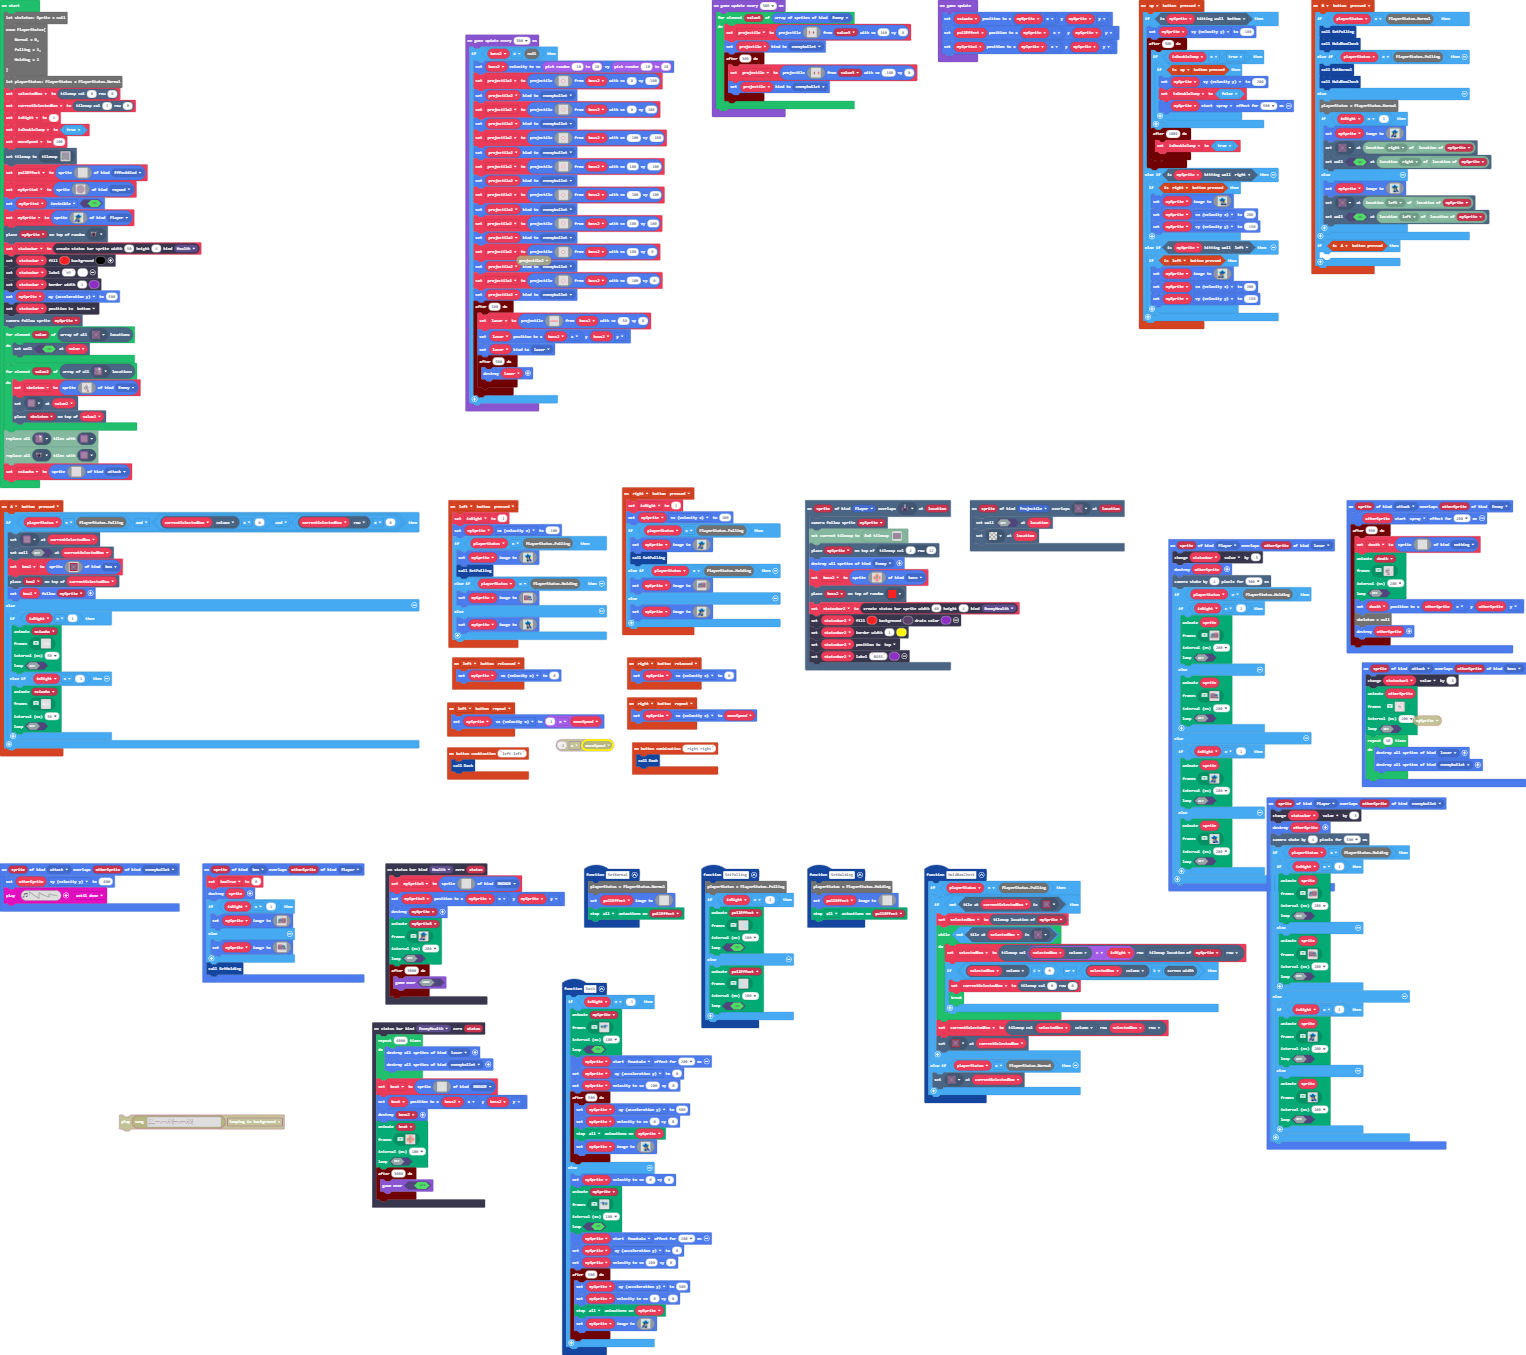
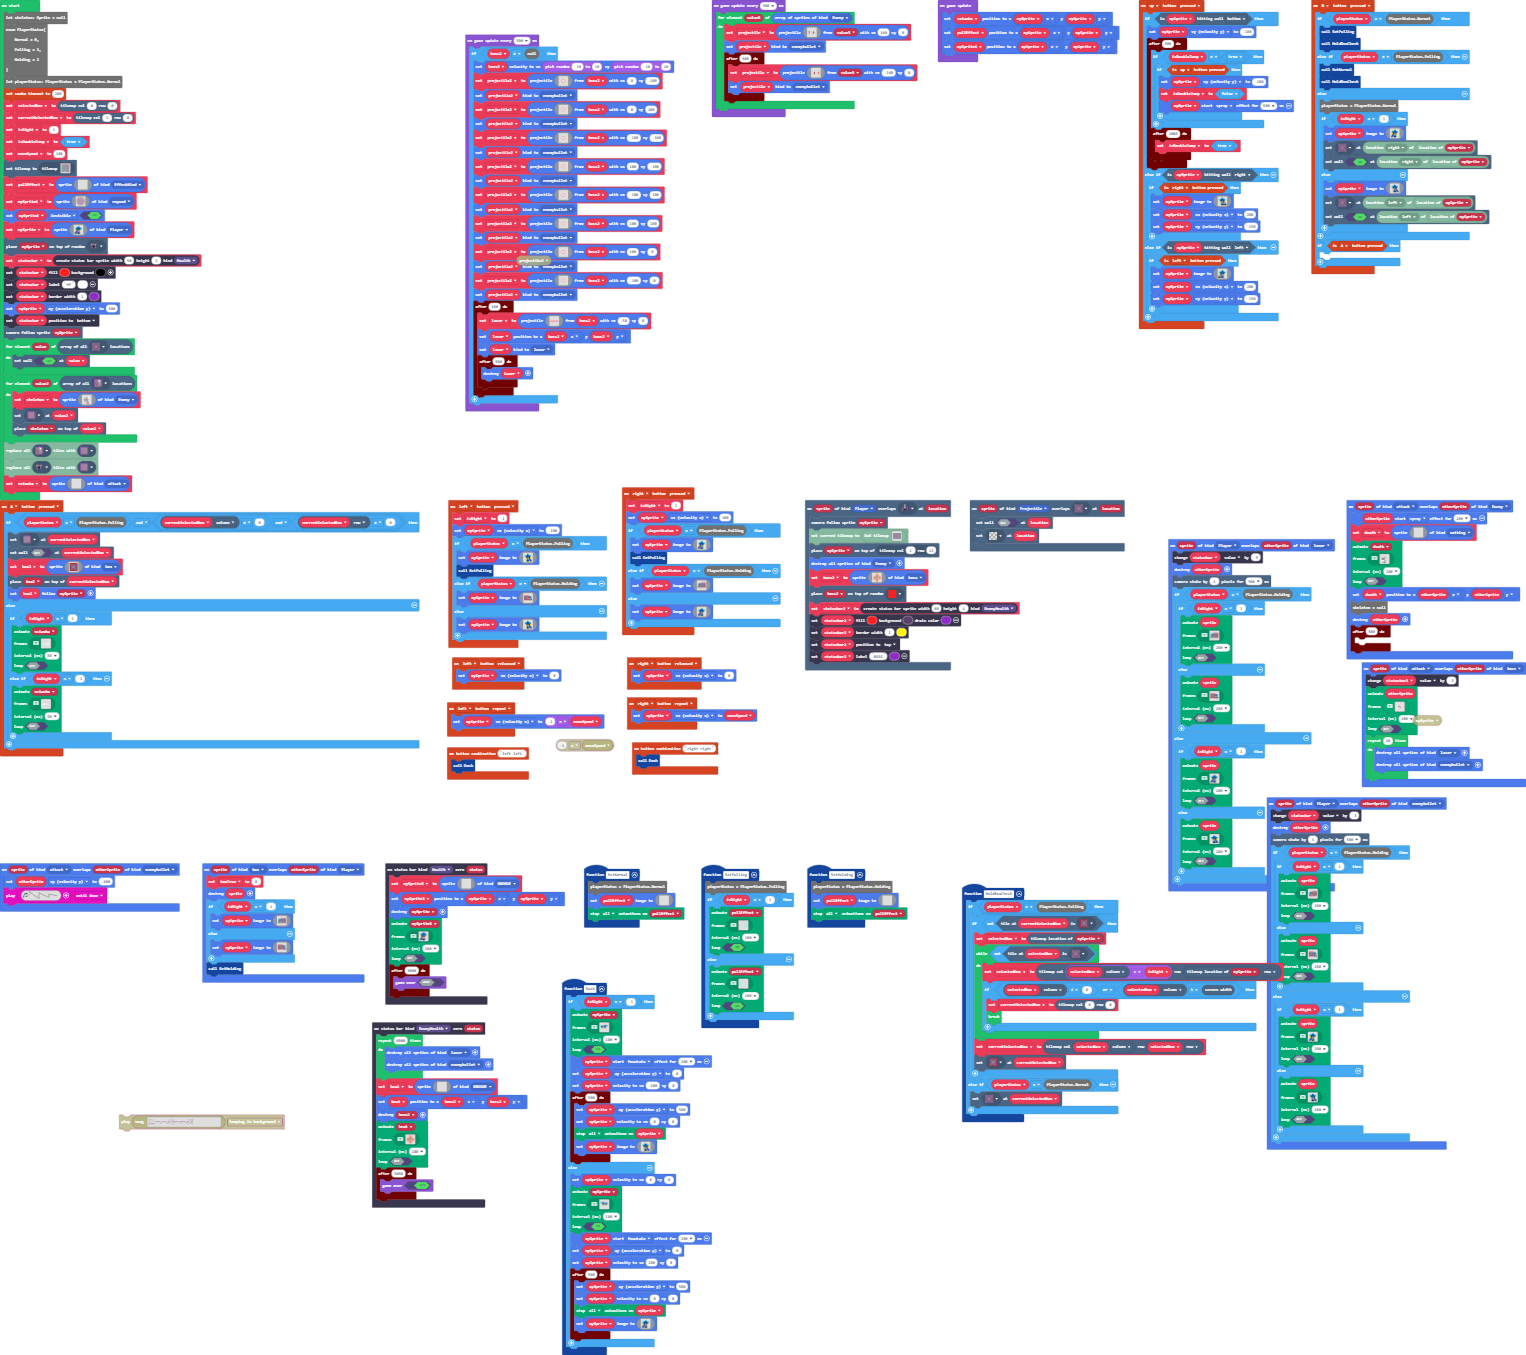
Adjusr dash and enemy death animation

Changed region(s): [[0.5852, 0.6199, 0.8624, 0.8369], [0.0, 0.062, 0.1232, 0.372], [0.8624, 0.372, 1.0, 0.4959]]

diff --git a/main.ts b/main.ts
@@ -1513,119 +1513,137 @@ statusbars.onZero(StatusBarKind.Health, function (status) {
 })
 sprites.onOverlap(SpriteKind.attack, SpriteKind.Enemy, function (sprite, otherSprite) {
     otherSprite.startEffect(effects.spray, 200)
-    timer.after(500, function () {
-        death = sprites.create(img`
-            . . . . . . . . . . . . . . . . 
-            . . . . . . . . . . . . . . . . 
-            . . . . . . . . . . . . . . . . 
-            . . . . . . . . . . . . . . . . 
-            . . . . . . . . . . . . . . . . 
-            . . . . . . . . . . . . . . . . 
-            . . . . . . . . . . . . . . . . 
-            . . . . . . . . . . . . . . . . 
-            . . . . . . . . . . . . . . . . 
-            . . . . . . . . . . . . . . . . 
-            . . . . . . . . . . . . . . . . 
-            . . . . . . . . . . . . . . . . 
-            . . . . . . . . . . . . . . . . 
-            . . . . . . . . . . . . . . . . 
-            . . . . . . . . . . . . . . . . 
-            . . . . . . . . . . . . . . . . 
-            `, SpriteKind.nothing)
-        animation.runImageAnimation(
-        death,
-        [img`
-            . . . . . . . . . . . . . . . . 
-            . . . . . . . 1 1 . . . . . . . 
-            . . . . . . 1 1 1 1 1 . . . . . 
-            . . . . . . f 1 f 1 1 . . . . . 
-            . . . . . . f 1 f 1 1 . . . . . 
-            . . . e . . 1 1 1 . . . . . . . 
-            . . e . f . . . 1 . . . . . . . 
-            . . e d d f d c c c . . . . . . 
-            . . e . . . f c c 1 . . . . . . 
-            . . e . . f 1 1 1 1 . . . . . . 
-            . . . e f . . c c c . . . . . . 
-            . . . . . . . 1 . . . . . . . . 
-            . . . . . . c c c . . . . . . . 
-            . . . . . . 1 . 1 . . . . . . . 
-            . . . . . . e . . e . . . . . . 
-            . . . . . e e . e e . . . . . . 
-            `,img`
-            . . . . . . . . 1 1 . . . . . . 
-            . . . . . . . 1 1 1 1 1 . . . . 
-            . . . . . . . f 1 f 1 1 . . . . 
-            . . . . . . . f 1 f 1 1 . . . . 
-            . . . . e . . 1 1 1 . . . . . . 
-            . . . e . f . . . 1 . . . . . . 
-            . . . e d d f d c c c . . . . . 
-            . . . e . . . f c c 1 . . . . . 
-            . . . e . . f 1 1 1 1 . . . . . 
-            . . . . e f . . 2 2 2 . . . . . 
-            . . . . . . . . 2 1 2 . . . . . 
-            . . . . . . 1 . . . . . . . . . 
-            . . . . . c c c . . . . . . . . 
-            . . . . . 1 . 1 . . . . . . . . 
-            . . . . . e . . e . . . . . . . 
-            . . . . e e . e e . . . . . . . 
-            `,img`
-            . . . . . . . . . . . . . . . . 
-            . . . . . . . . . . . . . . . . 
-            . . . . . . . e e e e . . . . . 
-            . . . . . . e . . d . e . . . . 
-            . . . . . . f . . d f . . . . . 
-            . . . . . . . f . f . . . . . . 
-            . . . . . . . 1 f d . 1 f f 1 . 
-            . . . . . 2 2 1 c c . 1 1 1 1 1 
-            . . 2 . . 1 2 1 c c 1 1 f f 1 1 
-            . . . . . 2 2 1 1 c . . 1 1 1 . 
-            . . . 2 . . . 2 . . . . 1 1 1 . 
-            . . . . . 1 . . . 2 . . . . . . 
-            . . . . c c c . . . . . . . . . 
-            . . . . 1 . 1 . . . . 2 . . . . 
-            . . . . e . . e . . . . . . . . 
-            . . . e e . e e . . . . . . . . 
-            `,img`
-            . . . . . . . . . . . . . . . . 
-            . . . . . . . . . . . . . . . . 
-            . . . . . . . . . . . . . . . . 
-            . . . . . . . . . . . . . . . . 
-            . . . . . . . . . . . . . . . . 
-            . . . . . . . . . . . . . . . . 
-            . . . . . . . . . . . . . . . . 
-            . . . . . . . . . . . . . . . . 
-            . . . . . . . . . . . . . . . . 
-            . . . . . . . . . . . . . . . . 
-            . . 2 . . . . . . . . . . . . . 
-            . . . . . 1 . . . . . . . . . . 
-            . . . . c c c . . 2 . . . 2 . . 
-            . 2 . . 1 . 1 . . . . . . . . . 
-            . . . . e . . e . . . 2 . 2 . . 
-            . . . e e . e e . 2 . . . . . . 
-            `,img`
-            . . . . . . . . . . . . . . . . 
-            . . . . . . . . . . . . . . . . 
-            . . . . . . . . . . . . . . . . 
-            . . . . . . . . . . . . . . . . 
-            . . . . . . . . . . . . . . . . 
-            . . . . . . . . . . . . . . . . 
-            . . . . . . . . . . . . . . . . 
-            . . . . . . . . . . . . . . . . 
-            . . . . . . . . . . . . . . . . 
-            . . . . . . . . . . . . . . . . 
-            . . . . . . . . . . . . . . . . 
-            . . . . . . . . . . . . . . . . 
-            . . . . . . . . . . . . . . . . 
-            . . . . . . . . . . . . . . . . 
-            . . . . . . . . . . . . . . . . 
-            . . . . . . . . . . . . . . . . 
-            `],
-        200,
-        false
-        )
-        death.setPosition(otherSprite.x, otherSprite.y)
-        skeleton = null
+    death = sprites.create(img`
+        . . . . . . . . . . . . . . . . 
+        . . . . . . . . . . . . . . . . 
+        . . . . . . . . . . . . . . . . 
+        . . . . . . . . . . . . . . . . 
+        . . . . . . . . . . . . . . . . 
+        . . . . . . . . . . . . . . . . 
+        . . . . . . . . . . . . . . . . 
+        . . . . . . . . . . . . . . . . 
+        . . . . . . . . . . . . . . . . 
+        . . . . . . . . . . . . . . . . 
+        . . . . . . . . . . . . . . . . 
+        . . . . . . . . . . . . . . . . 
+        . . . . . . . . . . . . . . . . 
+        . . . . . . . . . . . . . . . . 
+        . . . . . . . . . . . . . . . . 
+        . . . . . . . . . . . . . . . . 
+        `, SpriteKind.nothing)
+    animation.runImageAnimation(
+    death,
+    [img`
+        . . . . . . . . . . . . . . . . 
+        . . . . . . . 1 1 . . . . . . . 
+        . . . . . . 1 1 1 1 1 . . . . . 
+        . . . . . . f 1 f 1 1 . . . . . 
+        . . . . . . f 1 f 1 1 . . . . . 
+        . . . e . . 1 1 1 . . . . . . . 
+        . . e . f . . . 1 . . . . . . . 
+        . . e d d f d c c c . . . . . . 
+        . . e . . . f c c 1 . . . . . . 
+        . . e . . f 1 1 1 1 . . . . . . 
+        1 1 1 1 1 1 1 1 c c . . . . . . 
+        . . . . . . . 1 . . . . . . . . 
+        . . . . . . c c c . . . . . . . 
+        . . . . . . 1 . 1 . . . . . . . 
+        . . . . . . e . . e . . . . . . 
+        . . . . . e e . e e . . . . . . 
+        `,img`
+        . . . . . . . . . . . . . . . . 
+        . . . . . . . 1 1 . . . . . . . 
+        . . . . . . 1 1 1 1 1 . . . . . 
+        . . . . . . f 1 f 1 1 . . . . . 
+        . . . . . . f 1 f 1 1 . . . . . 
+        . . . 1 . . 1 1 1 . . . . . . . 
+        . . 1 . 1 . . . 1 . . . . . . . 
+        . . 1 1 1 1 1 1 1 1 . . . . . . 
+        . . 1 . . . 1 1 1 1 . . . . . . 
+        . . 1 . . 1 1 1 1 1 . . . . . . 
+        1 1 1 1 1 1 1 1 1 1 1 1 1 1 1 1 
+        . . . . . . . 1 . . . . . . . . 
+        . . . . . . 1 1 1 . . . . . . . 
+        . . . . . . 1 . 1 . . . . . . . 
+        . . . . . . 1 . . 1 . . . . . . 
+        . . . . . 1 1 . 1 1 . . . . . . 
+        `,img`
+        . . . . . . . . 1 1 . . . . . . 
+        . . . . . . . 1 1 1 1 1 . . . . 
+        . . . . . . . f 1 f 1 1 . . . . 
+        . . . . . . . f 1 f 1 1 . . . . 
+        . . . . e . . 1 1 1 . . . . . . 
+        . . . e . f . . . 1 . . . . . . 
+        . . . e d d f d c c c . . . . . 
+        . . . e . . . f c c 1 . . . . . 
+        . . . e . . f 1 1 1 1 . . . . . 
+        . . . . e f . . 2 2 2 . . . . . 
+        . . . . . . . . 2 1 2 . . . . . 
+        . . . . . . 1 . . . . . . . . . 
+        . . . . . c c c . . . . . . . . 
+        . . . . . 1 . 1 . . . . . . . . 
+        . . . . . e . . e . . . . . . . 
+        . . . . e e . e e . . . . . . . 
+        `,img`
+        . . . . . . . . . . . . . . . . 
+        . . . . . . . . . . . . . . . . 
+        . . . . . . . e e e e . . . . . 
+        . . . . . . e . . d . e . . . . 
+        . . . . . . f . . d f . . . . . 
+        . . . . . . . f . f . . . . . . 
+        . . . . . . . 1 f d . 1 f f 1 . 
+        . . . . . 2 2 1 c c . 1 1 1 1 1 
+        . . 2 . . 1 2 1 c c 1 1 f f 1 1 
+        . . . . . 2 2 1 1 c . . 1 1 1 . 
+        . . . 2 . . . 2 . . . . 1 1 1 . 
+        . . . . . 1 . . . 2 . . . . . . 
+        . . . . c c c . . . . . . . . . 
+        . . . . 1 . 1 . . . . 2 . . . . 
+        . . . . e . . e . . . . . . . . 
+        . . . e e . e e . . . . . . . . 
+        `,img`
+        . . . . . . . . . . . . . . . . 
+        . . . . . . . . . . . . . . . . 
+        . . . . . . . . . . . . . . . . 
+        . . . . . . . . . . . . . . . . 
+        . . . . . . . . . . . . . . . . 
+        . . . . . . . . . . . . . . . . 
+        . . . . . . . . . . . . . . . . 
+        . . . . . . . . . . . . . . . . 
+        . . . . . . . . . . . . . . . . 
+        . . . . . . . . . . . . . . . . 
+        . . 2 . . . . . . . . . . . . . 
+        . . . . . 1 . . . . . . . . . . 
+        . . . . c c c . . 2 . . . 2 . . 
+        . 2 . . 1 . 1 . . . . . . . . . 
+        . . . . e . . e . . . 2 . 2 . . 
+        . . . e e . e e . 2 . . . . . . 
+        `,img`
+        . . . . . . . . . . . . . . . . 
+        . . . . . . . . . . . . . . . . 
+        . . . . . . . . . . . . . . . . 
+        . . . . . . . . . . . . . . . . 
+        . . . . . . . . . . . . . . . . 
+        . . . . . . . . . . . . . . . . 
+        . . . . . . . . . . . . . . . . 
+        . . . . . . . . . . . . . . . . 
+        . . . . . . . . . . . . . . . . 
+        . . . . . . . . . . . . . . . . 
+        . . . . . . . . . . . . . . . . 
+        . . . . . . . . . . . . . . . . 
+        . . . . . . . . . . . . . . . . 
+        . . . . . . . . . . . . . . . . 
+        . . . . . . . . . . . . . . . . 
+        . . . . . . . . . . . . . . . . 
+        `],
+    200,
+    false
+    )
+    death.setPosition(otherSprite.x, otherSprite.y)
+    skeleton = null
 sprites.destroy(otherSprite)
+    timer.after(500, function () {
+    	
     })
 })
 controller.right.onEvent(ControllerButtonEvent.Pressed, function () {
@@ -2866,6 +2884,7 @@ enum PlayerStatus{
     Holding = 2
 }
 let playerStatus: PlayerStatus = PlayerStatus.Normal
+controller.combos.setTimeout(200)
 selectedBox = tiles.getTileLocation(0, 0)
 currentSelectedBox = tiles.getTileLocation(1, 0)
 isRight = 1
